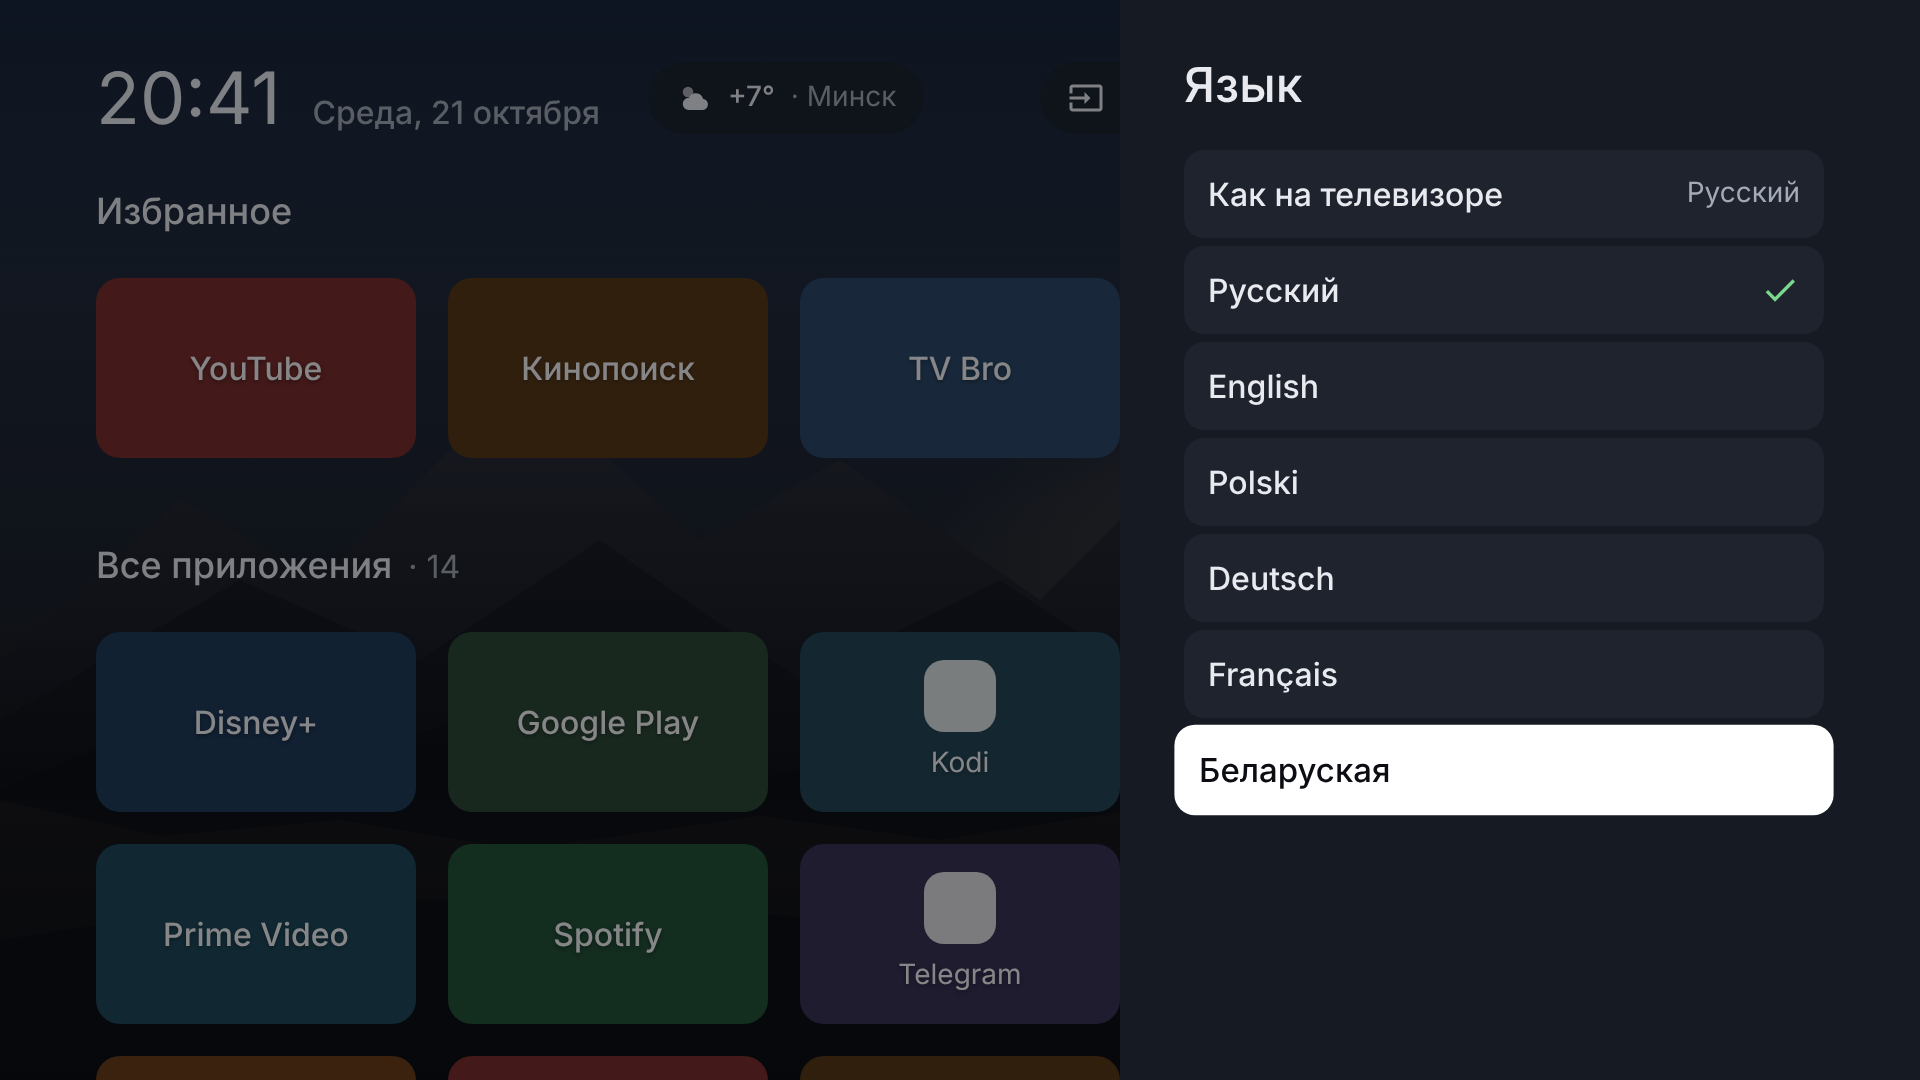
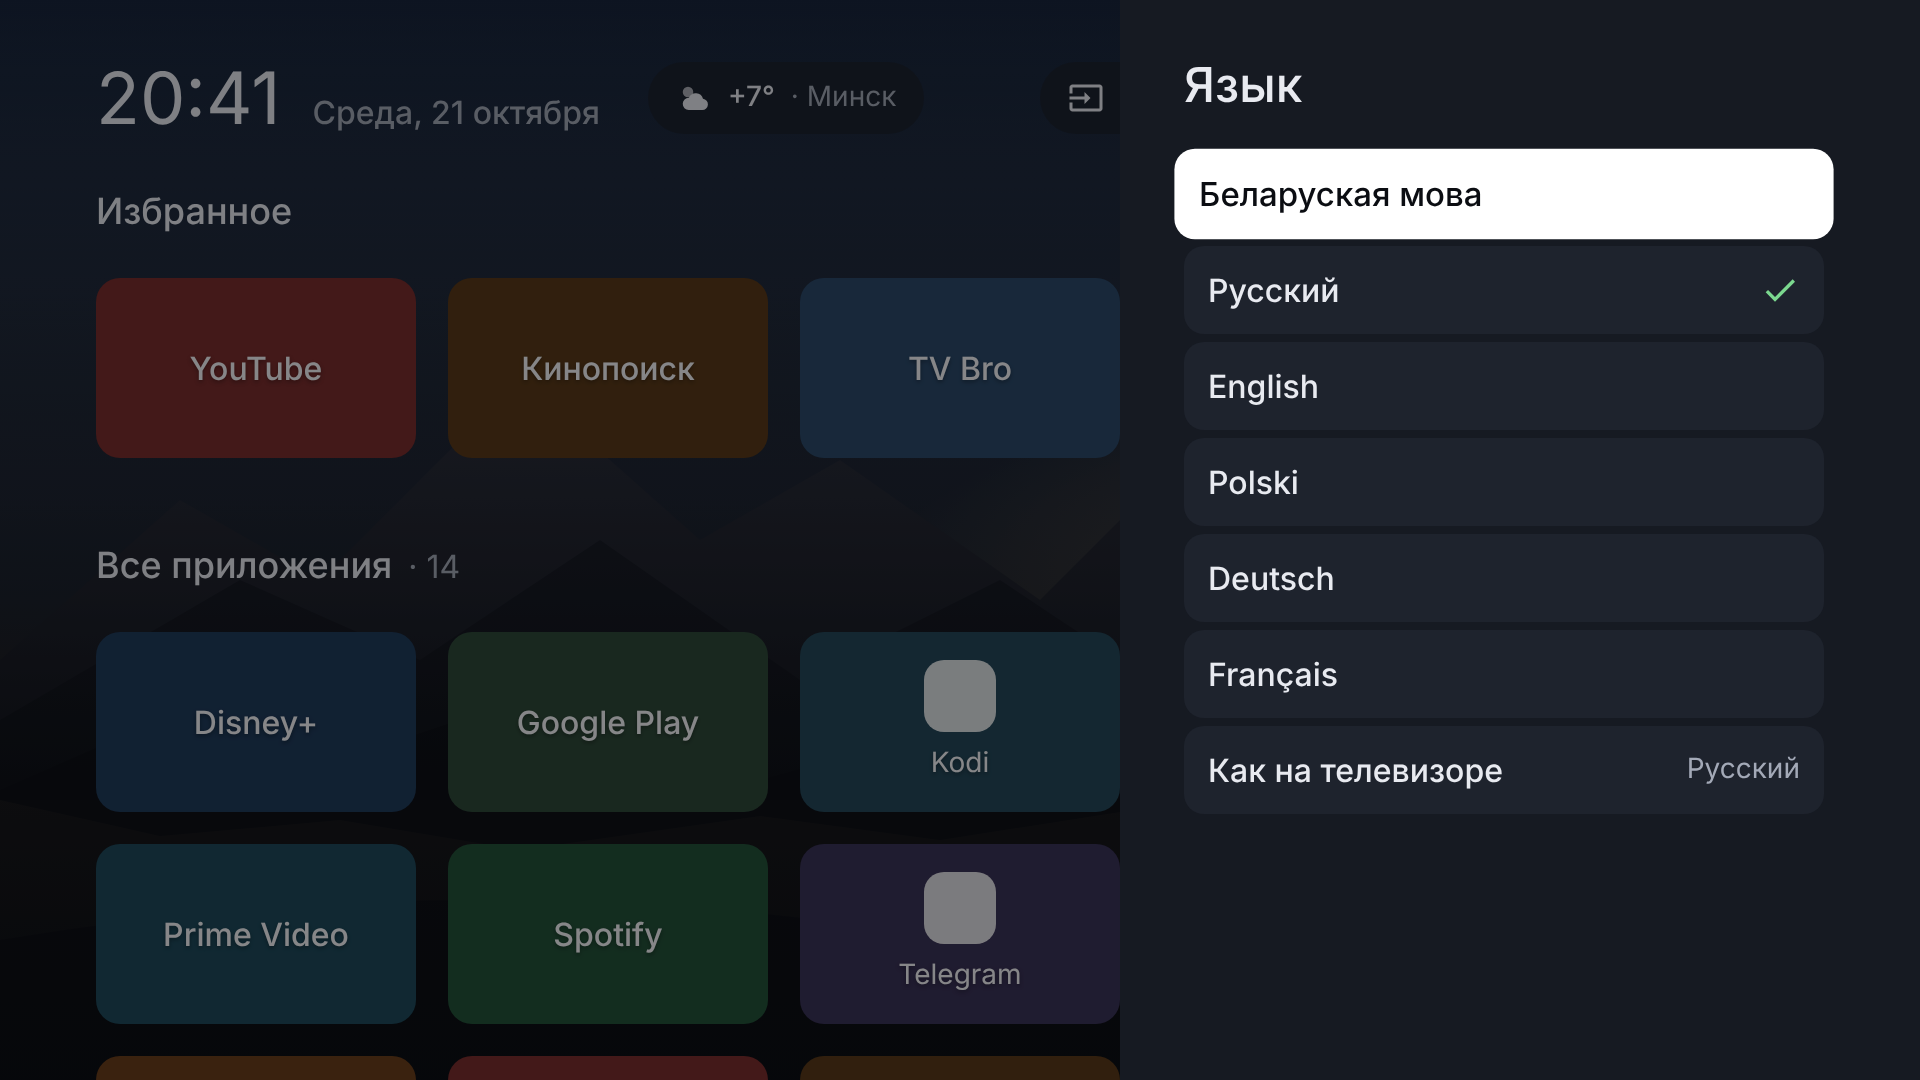
Put Belarusian first in the language list with its full native name

Changed region(s): [[0.5938, 0.1222, 0.9688, 0.2444], [0.5938, 0.6722, 0.9688, 0.7639]]

diff --git a/design/mockups/settings-language.html b/design/mockups/settings-language.html
@@ -16,13 +16,13 @@
   <aside class="sheet">
     <h1>Язык</h1>
     <div class="list">
-      <div class="item"><span class="title title-medium">Как на телевизоре</span><span class="value body-medium">Русский</span></div>
+      <div class="item focused"><span class="title title-medium">Беларуская мова</span></div>
       <div class="item"><span class="title title-medium">Русский</span><svg class="check"><use href="#check"/></svg></div>
       <div class="item"><span class="title title-medium">English</span></div>
       <div class="item"><span class="title title-medium">Polski</span></div>
       <div class="item"><span class="title title-medium">Deutsch</span></div>
       <div class="item"><span class="title title-medium">Français</span></div>
-      <div class="item focused"><span class="title title-medium">Беларуская</span></div>
+      <div class="item"><span class="title title-medium">Как на телевизоре</span><span class="value body-medium">Русский</span></div>
     </div>
   </aside>
 </body>

diff --git a/design/mockups/settings/languages.html b/design/mockups/settings/languages.html
@@ -15,7 +15,7 @@
 </head>
 <body>
   <script>
-    const LANGS = [['ru', 'Русский'], ['en', 'English'], ['pl', 'Polski'], ['de', 'Deutsch'], ['fr', 'Français'], ['be', 'Беларуская']];
+    const LANGS = [['be', 'Беларуская мова'], ['ru', 'Русский'], ['en', 'English'], ['pl', 'Polski'], ['de', 'Deutsch'], ['fr', 'Français']];
     for (const [code, name] of LANGS) {
       document.write(`<div class="cell"><iframe src="../home.html?nofocus&lang=${code}" title="${code}"></iframe><span class="label-large">${name}</span></div>`);
     }

diff --git a/.claude/skills/android-tv-launcher/references/settings-themes-i18n.md b/.claude/skills/android-tv-launcher/references/settings-themes-i18n.md
@@ -54,8 +54,11 @@ data class ThemeSpec(
 
 ## Languages
 
-The launcher's own language, independent of the TV's: follow the TV (default), Русский, English,
-Polski, Deutsch, Français, Беларуская. Show each one by its native name.
+The launcher's own language, independent of the TV's. The list order is the owner's:
+**Беларуская мова** (always first), Русский, English, Polski, Deutsch, Français, then
+"follow the TV" (the default selection, listed last). Show each language by its native name.
+Belarusian is written out in full as "Беларуская мова": in Belarusian, "мова" (language) is
+feminine, hence the "-ая" ending. The Russian name "Белорусский" is never used for it.
 
 - Resources: `values/` (English, the fallback), plus `values-ru`, `values-pl`, `values-de`,
   `values-fr` and `values-be`. Declare them in `res/xml/locales_config.xml` and point

diff --git a/docs/requirements.md b/docs/requirements.md
@@ -182,8 +182,10 @@ help with mirroring an iPhone screen.
 
 ## 13. Languages ✅
 
-- The launcher's own language: **follow the TV** (default), Русский, English, Polski, Deutsch,
-  Français, Беларуская. Each is shown by its native name.
+- The launcher's own language, in this order (the owner's request): **Беларуская мова** first,
+  then Русский, English, Polski, Deutsch, Français, and "follow the TV" last. "Follow the TV" is
+  still the default selection. Each language is shown by its native name, so Belarusian is written
+  in Belarusian.
 - Everything the launcher shows switches: titles, dates, weather texts and city names. App names
   come from the apps themselves.
 - Translations are written in-house; the owner checks them, especially Belarusian.
